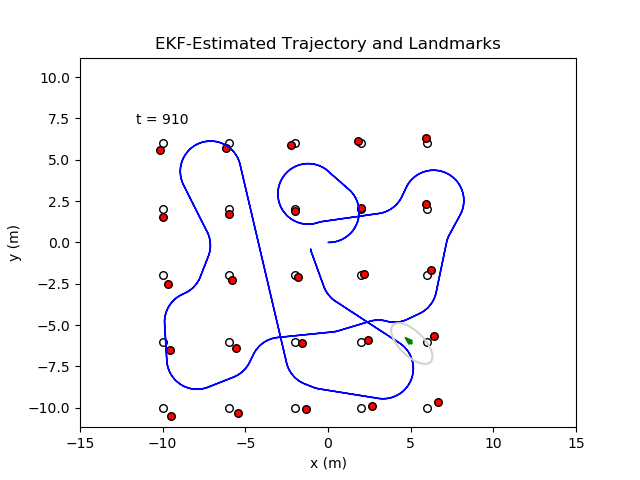
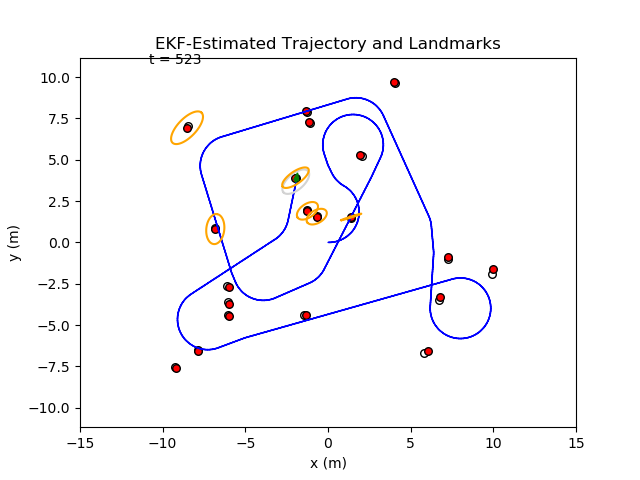
Plot landmark covariances. Change use of EKFState.landmarks to include landmark IDs.

diff --git a/ekf_ws/src/data_pkg/src/plotting_node.py b/ekf_ws/src/data_pkg/src/plotting_node.py
@@ -27,18 +27,46 @@ true_pose = None; true_map = None
 # plotting stuff.
 SHOW_ENTIRE_TRAJ = False
 SHOW_TRUE_TRAJ = True
-ARROW_LEN = 0.1
+ARROW_LEN = 0.1 # length of pose arrow.
+NUM_STD_DEV = 1 # number of std dev to include in cov ellipse.
 timestep_num = 1; time_text = None; time_text_position = None
 lm_pts = None; veh_pts = None; ell_pts = None; veh_true = None
+lm_cov = {}
 # set of PF particle plots.
 particle_plots = None; true_pt = None
 # output filename prefix.
 fname = ""
 #################################################
 
+def cov_to_ellipse(P_v):
+    """
+    Given the state covariance matrix,
+    compute points to plot representative ellipse.
+    """
+    # need to take only first 2x2 for veh position cov.
+    cov = P_v[0:2,0:2]
+    # get eigenvectors of cov.
+    vals, vecs = np.linalg.eigh(cov)
+    order = vals.argsort()[::-1]
+    vals = vals[order]; vecs = vecs[:,order]
+    # get rotation angle.
+    theta = np.arctan2(*vecs[:,0][::-1])
+    w, h = NUM_STD_DEV * 2 * np.sqrt(vals)
+    # create parametric ellipse.
+    t = np.linspace(0, 2*pi, 100)
+    ell = np.array([w*np.cos(t) , h*np.sin(t)])
+    # compute rotation transform.
+    R_ell = np.array([[cos(theta), -sin(theta)],[sin(theta) , cos(theta)]])
+    # apply rotation to ellipse.
+    ell_rot = np.zeros((2,ell.shape[1]))
+    for i in range(ell.shape[1]):
+        ell_rot[:,i] = np.dot(R_ell,ell[:,i])
+    return ell_rot
+
+
 # get the state published by the EKF.
 def get_ekf_state(msg):
-    global veh_x, veh_y, veh_th, lm_x, lm_y, lm_pts, veh_pts, ell_pts, veh_true, true_map, true_pose, timestep_num, time_text, time_text_position, fname
+    global veh_x, veh_y, veh_th, lm_x, lm_y, lm_pts, veh_pts, ell_pts, veh_true, true_map, true_pose, timestep_num, time_text, time_text_position, fname, lm_cov
     # set filename for EKF.
     fname = "ekf"
     # save what we want to plot.
@@ -52,8 +80,8 @@ def get_ekf_state(msg):
     veh_y.append(msg.y_v)
     veh_th.append(msg.yaw_v)
     if n > 3:
-        lm_x = [msg.landmarks[i] for i in range(0,len(msg.landmarks),2)]
-        lm_y = [msg.landmarks[i] for i in range(1,len(msg.landmarks),2)]
+        lm_x = [msg.landmarks[i] for i in range(1,len(msg.landmarks),3)]
+        lm_y = [msg.landmarks[i] for i in range(2,len(msg.landmarks),3)]
 
     # plot ground truth map.
     if true_map is not None:
@@ -69,35 +97,30 @@ def get_ekf_state(msg):
             plt.arrow(true_pose[timestep*3], true_pose[timestep*3+1], ARROW_LEN*cos(true_pose[timestep*3+2]), ARROW_LEN*sin(true_pose[timestep*3+2]), color="blue", width=0.01)
         true_pose = None
 
-
-    # plot EKF covariance for current position.
-    # referenced https://stackoverflow.com/questions/20126061/creating-a-confidence-ellipses-in-a-sccatterplot-using-matplotlib
-    # and https://stackoverflow.com/questions/10952060/plot-ellipse-with-matplotlib-pyplot-python
-
-    # got cov P_t from EKF. need to take only first 2x2 for position.
-    cov = P_v[0:2,0:2]
-    vals, vecs = eigsorted(cov)
-    theta = np.degrees(np.arctan2(*vecs[:,0][::-1]))
-    num_std_dev = 1
-    w, h = num_std_dev * 2 * np.sqrt(vals)
-    # draw parametric ellipse (instead of using patches).
-    t = np.linspace(0, 2*pi, 100)
-    Ell = np.array([w*np.cos(t) , h*np.sin(t)])
-    R_rot = np.array([[cos(theta) , -sin(theta)],[sin(theta) , cos(theta)]])
-    Ell_rot = np.zeros((2,Ell.shape[1]))
-    for i in range(Ell.shape[1]):
-        Ell_rot[:,i] = np.dot(R_rot,Ell[:,i])
+    # compute parametric ellipse for veh covariance.
+    ell_rot = cov_to_ellipse(P_v)
     # remove old ellipses.
     if not SHOW_ENTIRE_TRAJ and ell_pts is not None:
         ell_pts.remove()
     # plot the ellipse.
-    ell_pts, = plt.plot(msg.x_v+Ell_rot[0,:] , msg.y_v+Ell_rot[1,:],'lightgrey')
+    ell_pts, = plt.plot(msg.x_v+ell_rot[0,:] , msg.y_v+ell_rot[1,:],'lightgrey')
 
-    # remove old landmark estimates
+    # remove old landmark estimates and covariances.
     if lm_pts is not None:
         lm_pts.remove()
     # plot new landmark estimates.
     lm_pts = plt.scatter(lm_x, lm_y, s=30, color="red", edgecolors="black")
+    # plot new landmark covariances.
+    for i in range(len(msg.landmarks) // 3):
+        # remove if it's been plotted before.
+        lm_id = msg.landmarks[i*3] 
+        if lm_id in lm_cov.keys() and lm_cov[lm_id] is not None:
+            lm_cov[lm_id].remove()
+            lm_cov[lm_id] = None
+        # extract 2x2 cov for this landmark.
+        lm_ell = cov_to_ellipse(np.array([[msg.P[3+2*i],msg.P[4+2*i]],[msg.P[n+3+2*i],msg.P[n+4+2*i]]]))
+        # plot its ellipse.
+        lm_cov[lm_id], = plt.plot(lm_x[i]+lm_ell[0,:] , lm_y[i]+lm_ell[1,:],'orange')
 
     # plot current EKF-estimated veh pos.
     if not SHOW_ENTIRE_TRAJ and veh_pts is not None:
@@ -227,11 +250,8 @@ def main():
     rospy.Subscriber("/truth/landmarks",Float32MultiArray, get_true_map, queue_size=1)
 
     # startup the plot.
-    try:
-        plt.ion()
-        plt.show()
-    except:
-        pass
+    plt.ion()
+    plt.show()
 
     rospy.spin()
 

diff --git a/ekf_ws/src/ekf_pkg/src/ekf.cpp b/ekf_ws/src/ekf_pkg/src/ekf.cpp
@@ -161,8 +161,10 @@ ekf_pkg::EKFState EKF::getState() {
     // landmarks.
     stateMsg.M = this->M;
     std::vector<float> lm;
-    for (int i=0; i<2*M; ++i) {
-        lm.push_back(this->x_t(3+i));
+    for (int i=0; i<M; ++i) {
+        lm.push_back((float) this->lm_IDs[i]);
+        lm.push_back(this->x_t(3+i*2));
+        lm.push_back(this->x_t(3+i*2+1));
     }
     stateMsg.landmarks = lm;
     // covariance. collapse all rows side by side into a vector.

diff --git a/ekf_ws/src/ekf_pkg/src/ekf_node.py b/ekf_ws/src/ekf_pkg/src/ekf_node.py
@@ -152,7 +152,7 @@ def send_state():
     msg.y_v = x_t[1,0]
     msg.yaw_v = x_t[2,0]
     msg.M = (x_t.shape[0] - 3) // 2
-    msg.landmarks = sum([[x_t[i,0], x_t[i+1,0]] for i in range(3,x_t.shape[0],2)], [])
+    msg.landmarks = sum([[lm_IDs[i], x_t[i,0], x_t[i+1,0]] for i in range(3,x_t.shape[0],2)], [])
     # covariance change to one row.
     msg.P = []
     for subl in P_t.tolist():
